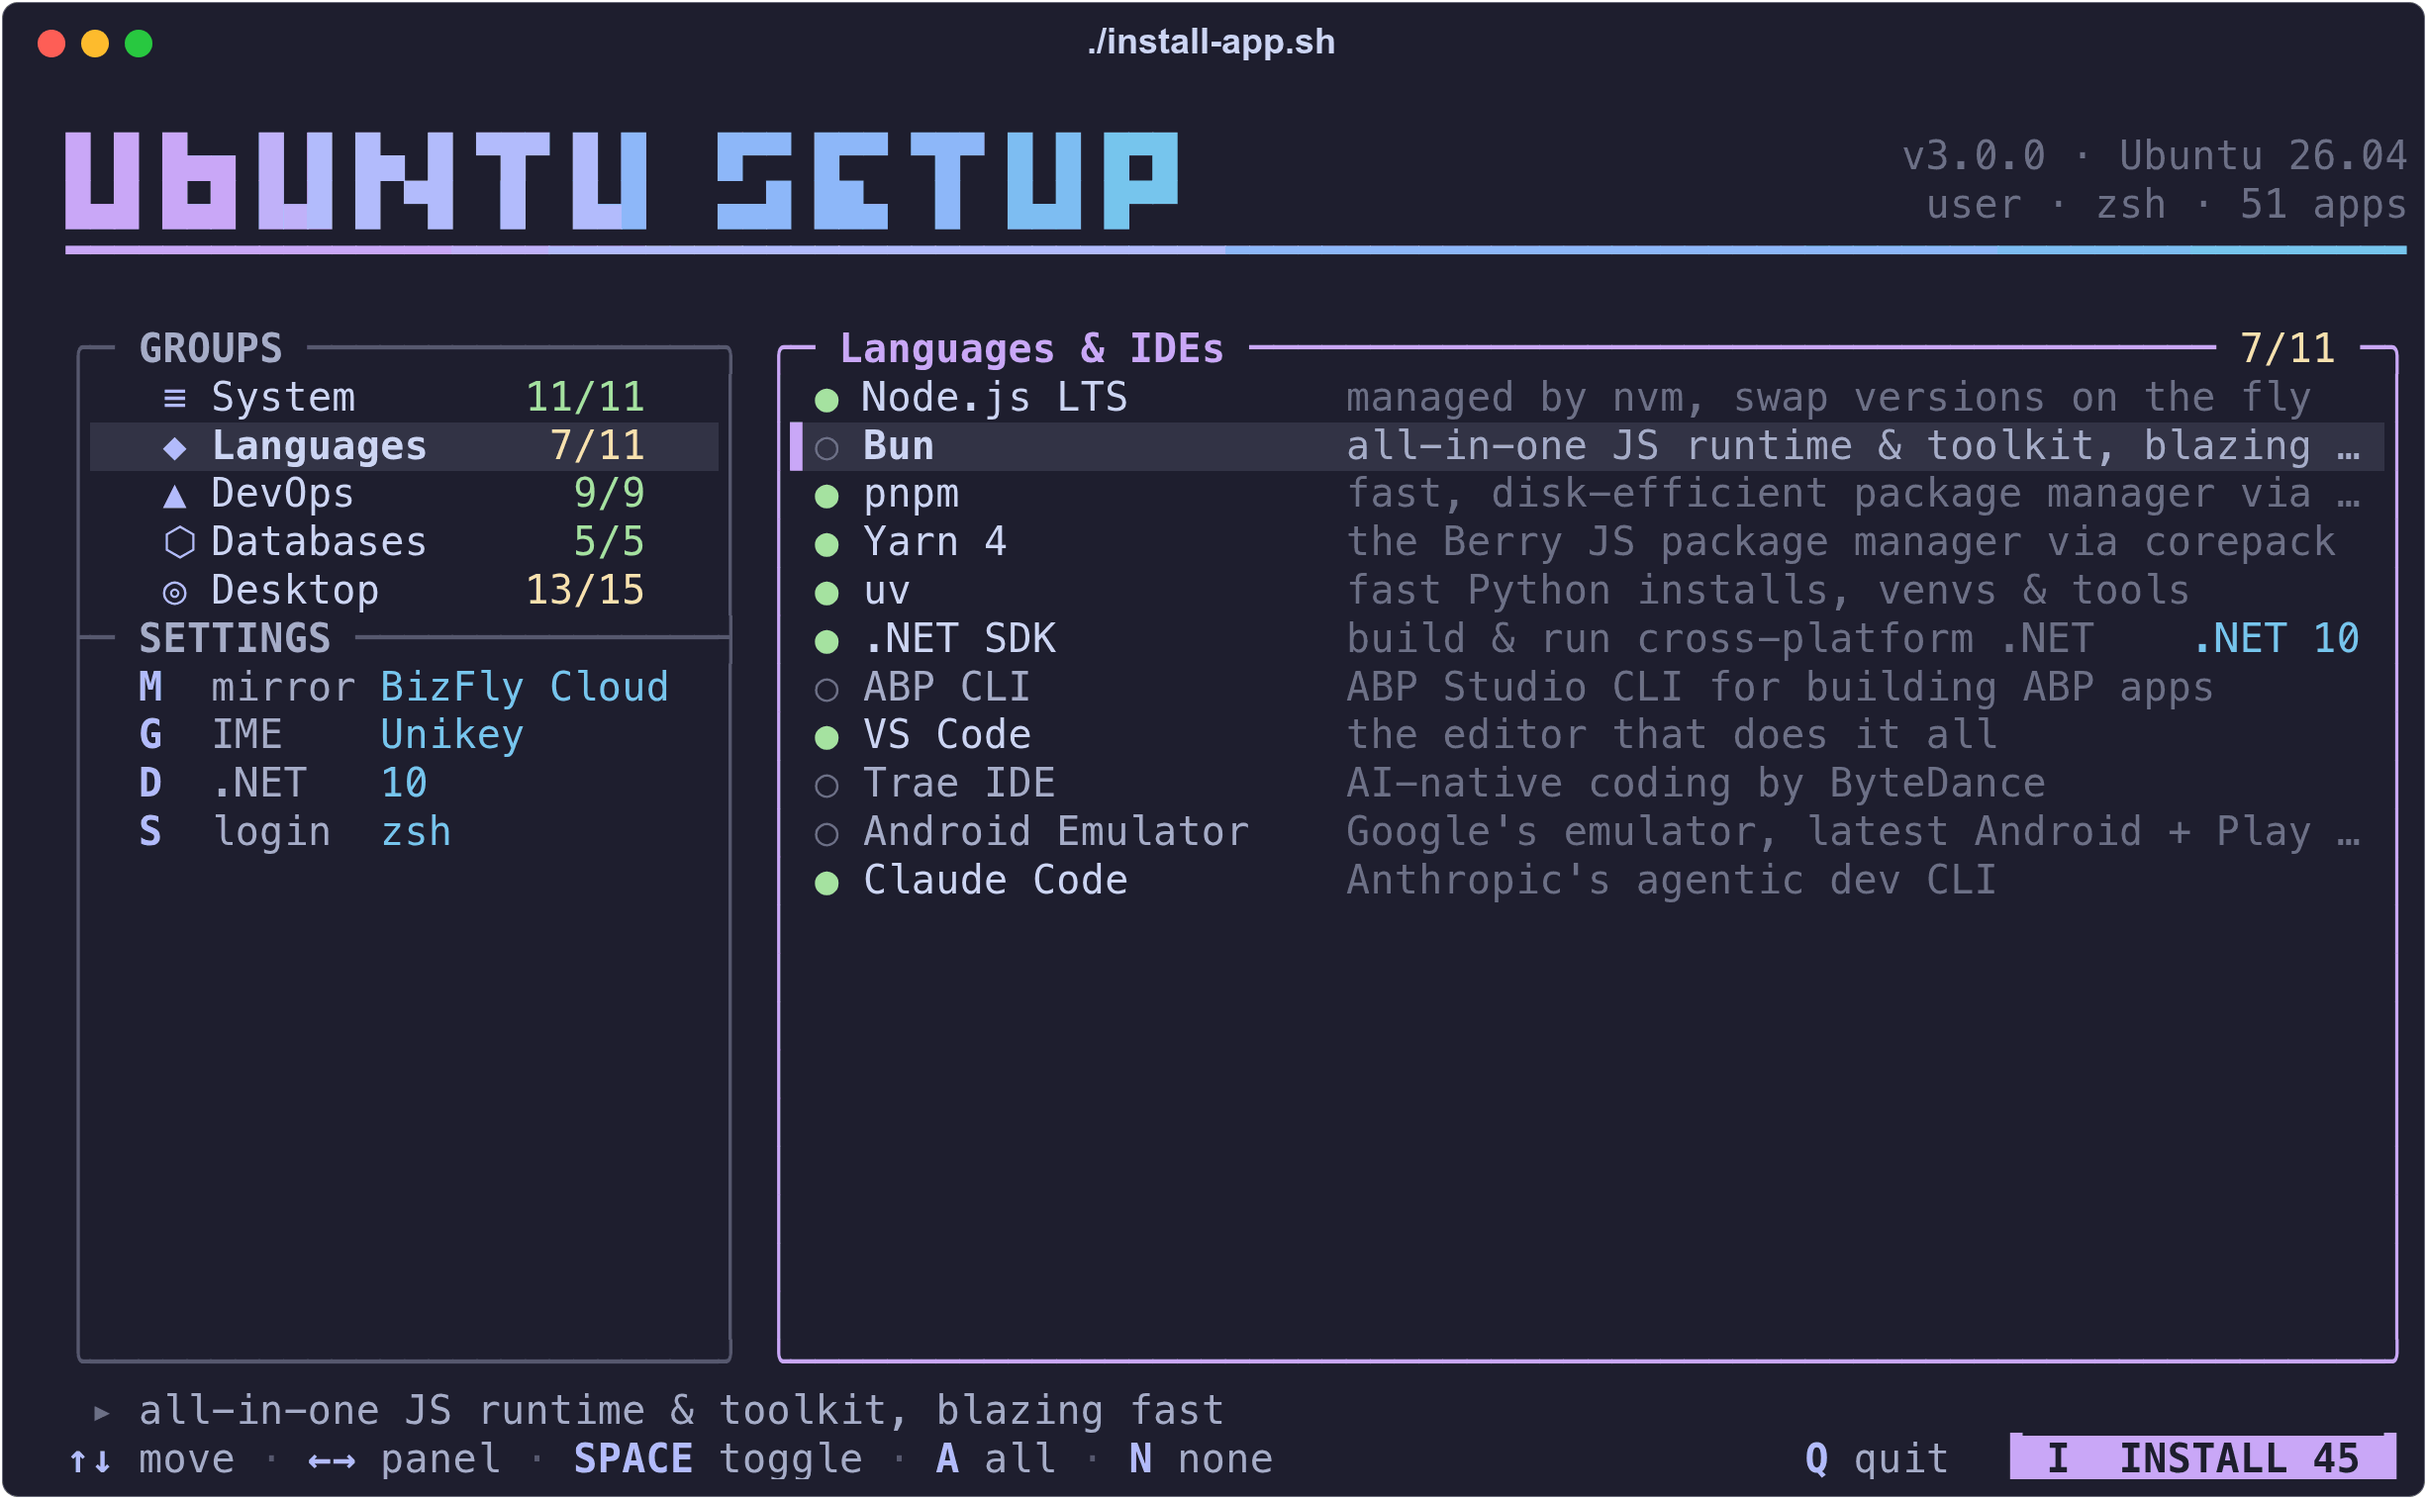
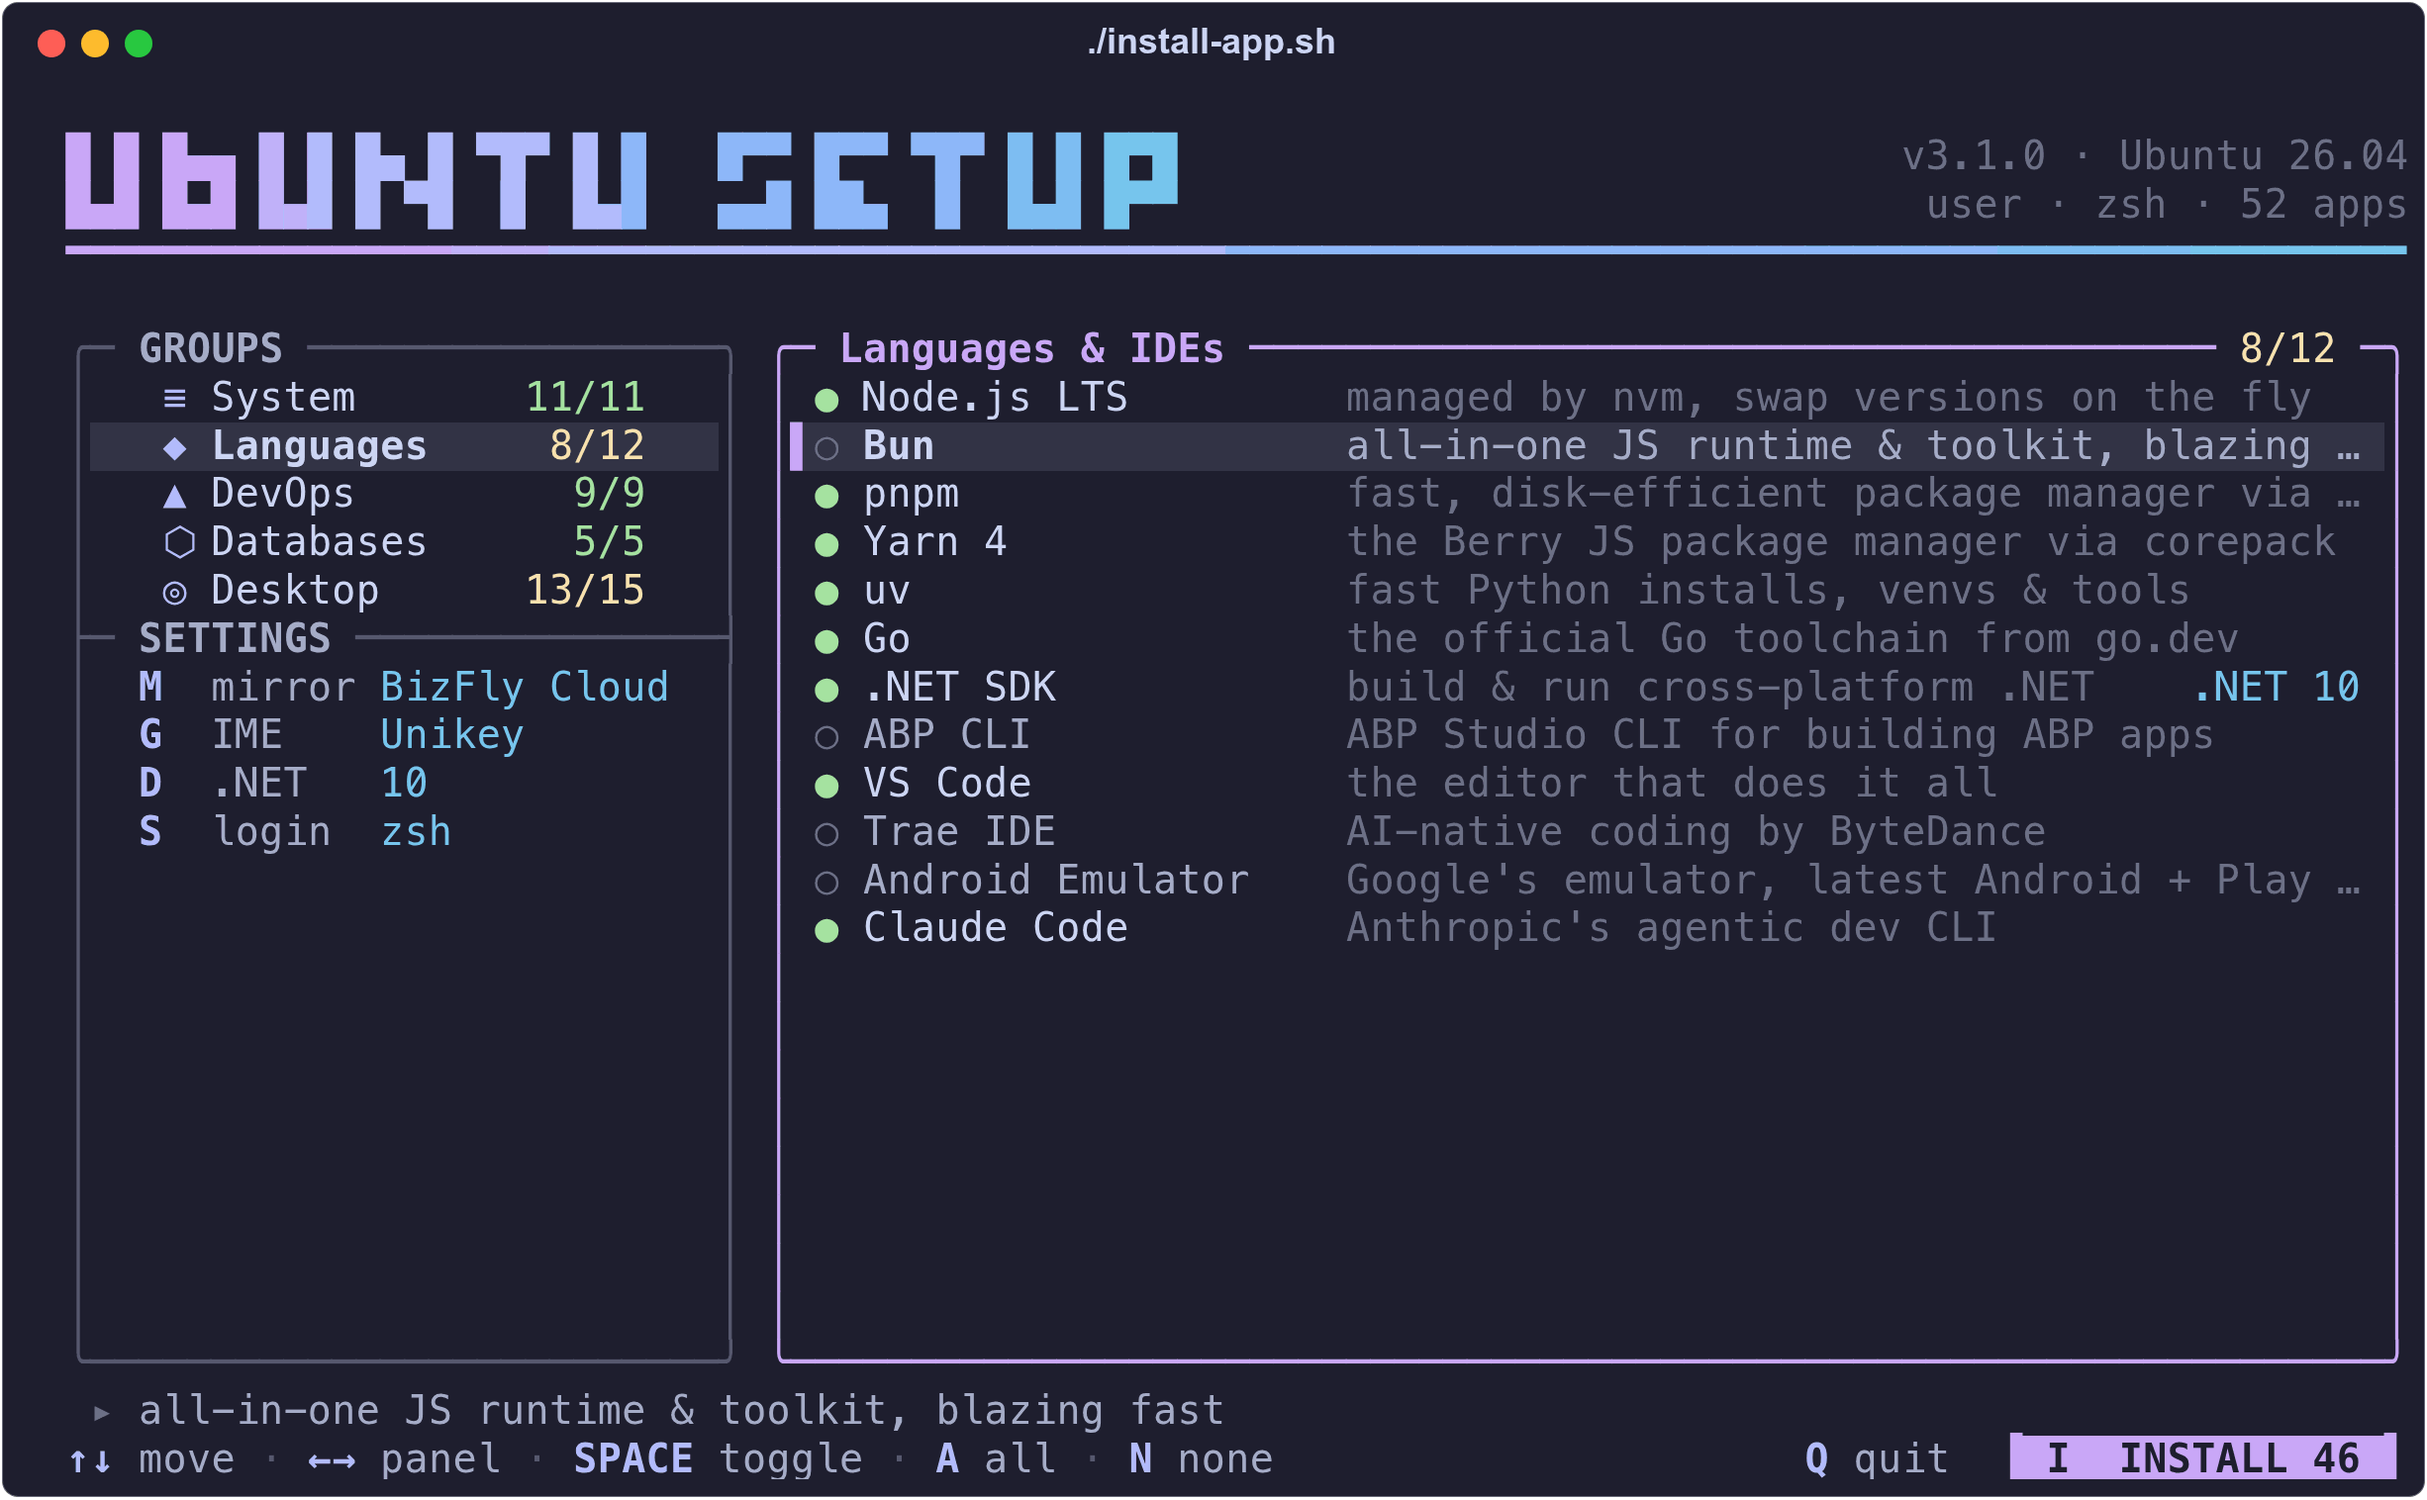
feat: add Go app (#22)
Install the official Go toolchain from go.dev into /usr/local/go with a
sha256 check; re-runs replace it when a new release appears. The new
tree is unpacked beside /usr/local/go and renamed into place. Uninstall
removes the toolchain and build/module caches and keeps ~/go when it
still holds go install binaries or sources.

Go is a runtime key, so the Tool-integrations block puts
/usr/local/go/bin and ~/go/bin on PATH. Bump to 3.1.0.

Changed region(s): [[0.5579, 0.403, 0.9608, 0.6201], [0.3409, 0.403, 0.4959, 0.6511], [0.217, 0.279, 0.248, 0.31]]

diff --git a/README.md b/README.md
@@ -23,8 +23,8 @@
 
 ## Features
 
-- **51 apps in 5 groups** — shell, languages and IDEs, DevOps, databases, desktop apps.
-- **Idempotent** — re-runs skip what is up to date, update nvm, Node.js LTS, Bun, pnpm, Yarn, uv, ABP CLI, AzCopy, kubectl, k3d, lazygit, lazydocker, sqlcmd, yq, Oh My Zsh, Trae, Zalo, LocalSend and the Android SDK to their latest release, and move old installs onto the current upstream method.
+- **52 apps in 5 groups** — shell, languages and IDEs, DevOps, databases, desktop apps.
+- **Idempotent** — re-runs skip what is up to date, update nvm, Node.js LTS, Bun, pnpm, Yarn, uv, Go, ABP CLI, AzCopy, kubectl, k3d, lazygit, lazydocker, sqlcmd, yq, Oh My Zsh, Trae, Zalo, LocalSend and the Android SDK to their latest release, and move old installs onto the current upstream method.
 - **Reversible** — every app has an uninstall that removes its packages, repos, keys and shell config.
 - **Isolated steps** — a failing app ends only its own step; the rest of the run continues.
 - **Vietnam-ready** — fast local APT mirrors, Fcitx5 Vietnamese input, fonts with full diacritics.
@@ -99,6 +99,7 @@ Terminals narrower than 80 columns get a single list with collapsible groups (`E
 | Bun | `bun.sh/install`, per user |
 | pnpm, Yarn 4 | corepack npm package (needs Node.js) |
 | uv | `astral.sh/uv/install.sh` into `~/.local/bin`, per user; re-runs run `uv self update` |
+| Go | Official tarball from `go.dev`, sha256-checked → `/usr/local/go`; replaced when a new release appears |
 | .NET SDK | 10 from the archive, 8/9 from `ppa:dotnet/backports` (end of support 2026-11-10) |
 | ABP CLI | `Volo.Abp.Studio.Cli` dotnet tool (needs .NET) |
 | VS Code | Microsoft apt repo |
@@ -165,7 +166,7 @@ Coming from Windows? [PHAN-MEM-TUONG-THICH.md](PHAN-MEM-TUONG-THICH.md) (Vietnam
 
 - **Steps:** one line per app with a spinner, then `✓` / `!` (warnings listed under it) / `✗` with the failing command and the step's last 15 log lines.
 - **Log:** full output in `/var/log/install-app/<YYYYmmdd-HHMMSS>.log`; `tail -f` it to watch a step.
-- **Shell integration:** runtime PATH/env (nvm, Bun, pnpm, uv, .NET, Azure completion, Claude Code, Android SDK) is one `# --- Tool integrations ---` block in `.bashrc`, and in `.zshrc` when zsh is installed.
+- **Shell integration:** runtime PATH/env (nvm, Bun, pnpm, uv, Go, .NET, Azure completion, Claude Code, Android SDK) is one `# --- Tool integrations ---` block in `.bashrc`, and in `.zshrc` when zsh is installed.
 - **Wayland IME:** Chromium/Electron launchers (Chrome, Edge, VS Code, Teams, Trae, Postman) get flags so fcitx5 can type into them; an apt hook re-applies them after upgrades.
 - **Ctrl-C** prints a partial summary. apt waits up to 10 minutes for a busy dpkg lock.
 - **Reboot/re-login** is suggested only when needed (docker group, login shell, `/etc/environment`, `/var/run/reboot-required`), with the reasons.
@@ -185,7 +186,7 @@ Coming from Windows? [PHAN-MEM-TUONG-THICH.md](PHAN-MEM-TUONG-THICH.md) (Vietnam
 
 In uninstall mode every app starts unselected and `i` asks for confirmation. Each app's uninstall purges its packages, apt repo and key, downloaded binaries and the rc blocks it added; the mirror is restored from its backups.
 
-Kept on purpose: `git`, `curl`, Docker data (`/var/lib/docker`, `/var/lib/containerd`, `/etc/docker`), `unixodbc-dev`, `unzip`, `~/.claude`, `~/.kube`, `~/.android` apart from the `medium_phone` AVD, Zalo messages and settings (`~/.config/ZaloData`), an `~/Android/Sdk` that existed before the toolkit, and a completed system upgrade.
+Kept on purpose: `git`, `curl`, Docker data (`/var/lib/docker`, `/var/lib/containerd`, `/etc/docker`), `unixodbc-dev`, `unzip`, `~/.claude`, `~/.kube`, `~/go` when it holds `go install` binaries or sources, `~/.android` apart from the `medium_phone` AVD, Zalo messages and settings (`~/.config/ZaloData`), an `~/Android/Sdk` that existed before the toolkit, and a completed system upgrade.
 
 ## Troubleshooting
 

diff --git a/CLAUDE.md b/CLAUDE.md
@@ -1,7 +1,7 @@
 # CLAUDE.md
 
 Bash post-install toolkit for Ubuntu 26.04 (resolute): a TUI menu picks which of
-51 apps to install or uninstall, then runs each one as a step. Other releases get
+52 apps to install or uninstall, then runs each one as a step. Other releases get
 a warning and the run continues.
 
 ## Layout
